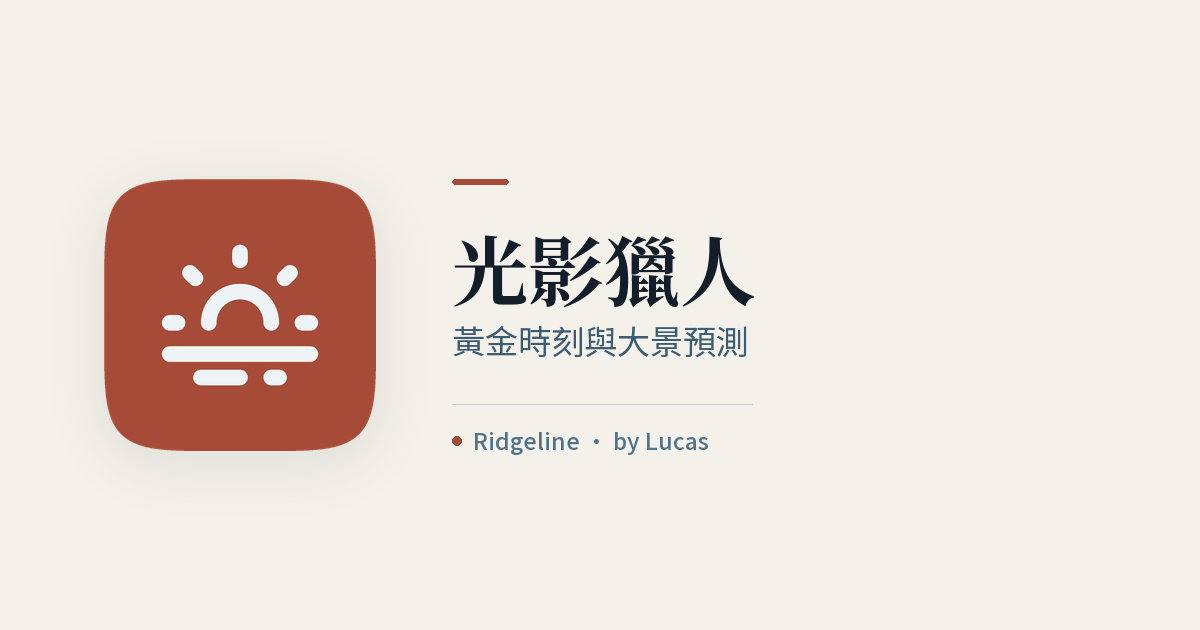
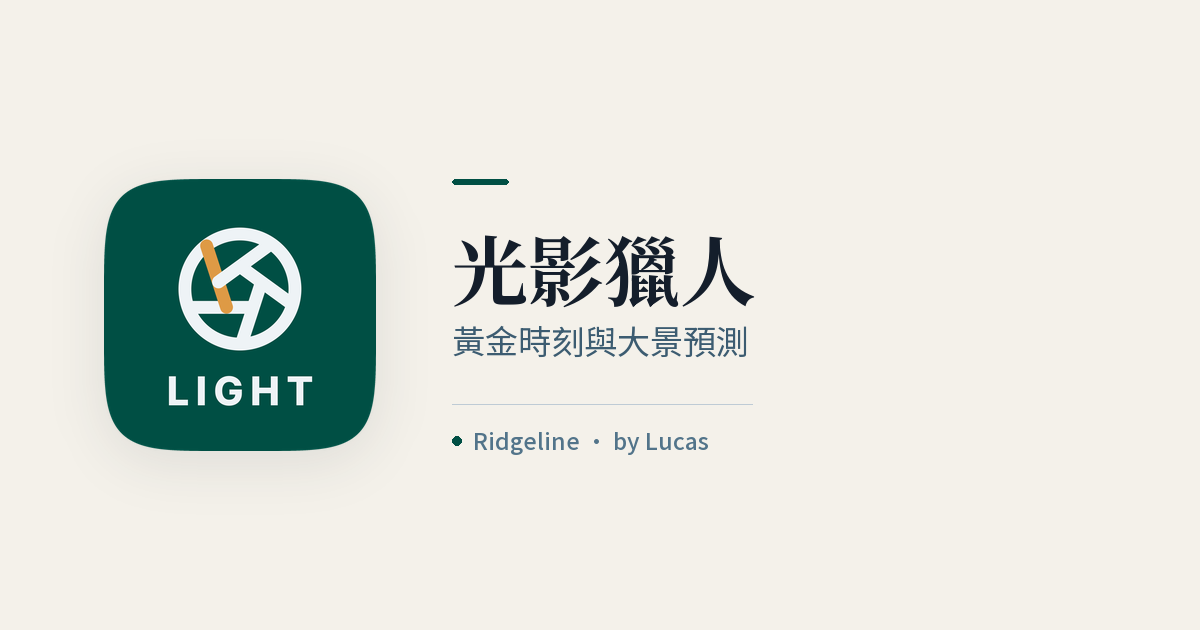
fix(brand): OG 分享卡是09-04改色前的舊圖，分享出去圖是舊色
老闆用LINE分享按鈕實測，跳出來的預覽卡是改色前的舊圖示。用官方共用產生器
（05_品牌資源/04_行銷素材/13_App分享卡_OG/og_app_card.py）重新產卡，讀的
就是現在的icon-512.png，新色正確；og:image/twitter:image的?v=cache bust
參數同步升級避免LINE/FB爬蟲繼續發舊圖。sw版號同步升級避免PWA吃不到新檔。

Changed region(s): [[0.0617, 0.2714, 0.3392, 0.7238], [0.37, 0.2714, 0.4317, 0.3016], [0.37, 0.6937, 0.4008, 0.7238]]

diff --git a/index.html b/index.html
@@ -107,7 +107,7 @@
 <meta property="og:url" content="https://lightcatcher.pages.dev/">
 <meta property="og:title" content="光影獵人｜黃金時刻與大景預測">
 <meta property="og:description" content="黃金時刻倒數、火燒雲與雲海機率預測、觀星與琉璃光指數，還有攝影熱點地圖。">
-<meta property="og:image" content="https://lightcatcher.pages.dev/og-lightcatcher.png?v=20260903-1">
+<meta property="og:image" content="https://lightcatcher.pages.dev/og-lightcatcher.png?v=20260908">
 <meta property="og:image:type" content="image/png">
 <meta property="og:image:width" content="1200">
 <meta property="og:image:height" content="630">
@@ -115,7 +115,7 @@
 <meta name="twitter:card" content="summary_large_image">
 <meta name="twitter:title" content="光影獵人｜黃金時刻與大景預測">
 <meta name="twitter:description" content="黃金時刻倒數、火燒雲與雲海機率預測、觀星與琉璃光指數，還有攝影熱點地圖。">
-<meta name="twitter:image" content="https://lightcatcher.pages.dev/og-lightcatcher.png?v=20260903-1">
+<meta name="twitter:image" content="https://lightcatcher.pages.dev/og-lightcatcher.png?v=20260908">
 <meta name="twitter:image:alt" content="光影獵人 — 黃金時刻與大景預測">
 </head>
 <body>

diff --git a/sw.js b/sw.js
@@ -1,4 +1,4 @@
-const CACHE = 'lightcatcher-v27';
+const CACHE = 'lightcatcher-v28';
 
 // 鐵則16：預先快取清單不放任何 .html（含 index.html），避免 Cloudflare Pages
 // 對 .html 的 308 轉址被存成 redirected:true 的 Response 後拿去 respondWith 導覽請求。
